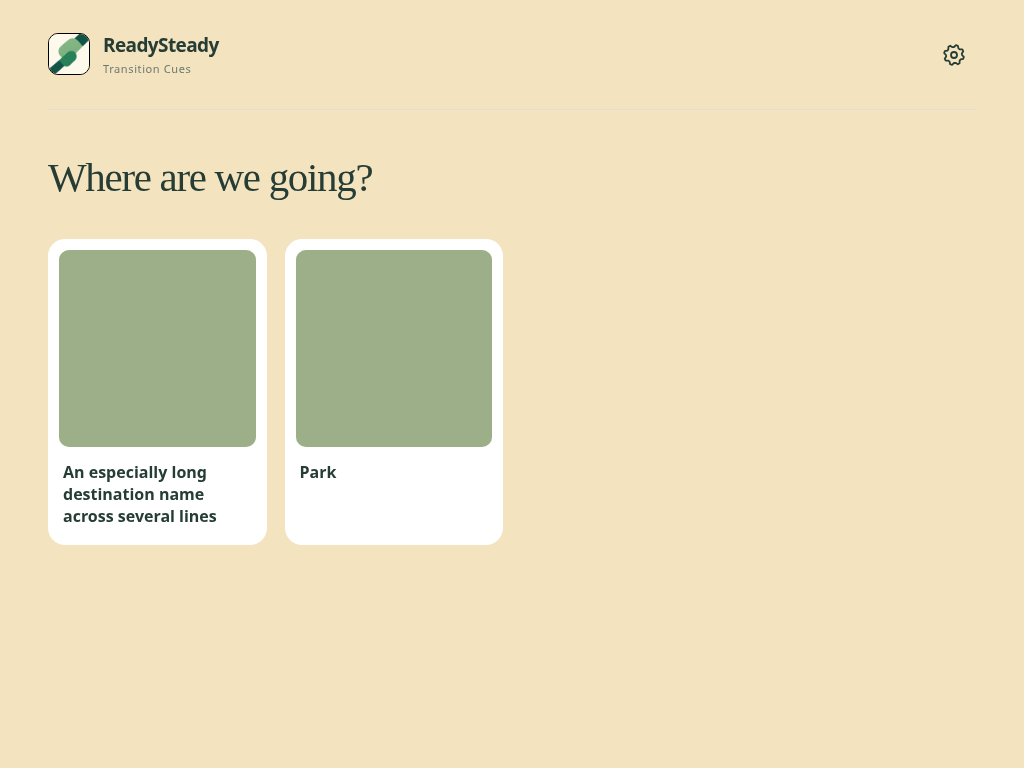
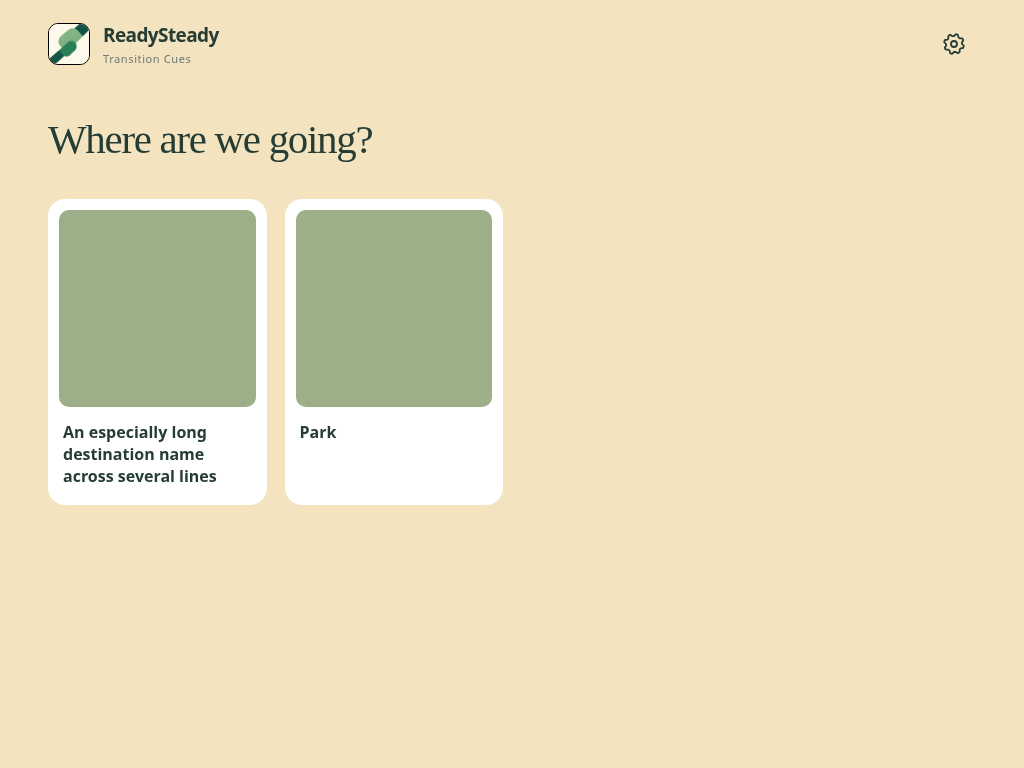
Compact the planner header and add reset in v1.0.25

diff --git a/transition_cues/transition-cues-web/app.js b/transition_cues/transition-cues-web/app.js
@@ -18,9 +18,9 @@ async function refresh() { state = await api('state'); state.items ??= []; state
 const libraryIcon='<svg viewBox="0 0 24 24" fill="none" stroke="currentColor" stroke-width="1.8" aria-hidden="true"><rect x="3" y="3" width="18" height="18" rx="3"/><circle cx="8" cy="8" r="1.5"/><path d="m3 17 5-5 4 4 4-6 5 7"/></svg>';
 const settingsIcon='<svg viewBox="0 0 24 24" fill="none" stroke="currentColor" stroke-width="1.8" stroke-linejoin="round" aria-hidden="true"><polygon points="20.00,12.00 21.81,13.95 21.24,15.83 18.65,16.44 17.66,17.66 17.56,20.31 15.83,21.24 13.56,19.85 12.00,20.00 10.05,21.81 8.17,21.24 7.56,18.65 6.34,17.66 3.69,17.56 2.76,15.83 4.15,13.56 4.00,12.00 2.19,10.05 2.76,8.17 5.35,7.56 6.34,6.34 6.44,3.69 8.17,2.76 10.44,4.15 12.00,4.00 13.95,2.19 15.83,2.76 16.44,5.35 17.66,6.34 20.31,6.44 21.24,8.17 19.85,10.44"/><circle cx="12" cy="12" r="3"/></svg>';
 const backIcon='<svg viewBox="0 0 24 24" fill="none" stroke="currentColor" stroke-width="2" stroke-linecap="round" stroke-linejoin="round" aria-hidden="true"><path d="m15 18-6-6 6-6"/></svg>';
-function frame(content, route) {
+function frame(content, route, selectionHeader='') {
   document.body.classList.remove('lock-active');
-  app.innerHTML = `<div class="shell"><header class="header ${route==='choose'?'':'subpage-header'}">${route==='choose'?'<a class="brand" href="#choose"><img src="/icons/icon-192.png?v=1.0.22" alt=""><span>ReadySteady<small>Transition Cues</small></span></a>':`<a class="back-plan header-back" href="#choose" aria-label="Back to plan" title="Back to plan">${backIcon}</a><h1 class="header-title">Settings</h1>`}${route==='choose'?`<nav class="nav" aria-label="Main navigation">${[['settings','Settings',settingsIcon]].map(([r,t,icon])=>`<a class="icon-link" href="#${r}" aria-label="${t}" title="${t}" ${route===r?'aria-current="page"':''}>${icon}</a>`).join('')}</nav>`:''}${state.returnUrl ? `<a class="return-link" href="${esc(state.returnUrl)}">← Back to main screen</a>` : ''}</header>${content}</div>`;
+  app.innerHTML = `<div class="shell"><header class="header ${route==='choose'?'planner-header':'subpage-header'} ${selectionHeader?'selection-header':''}">${selectionHeader||`${route==='choose'?'<a class="brand" href="#choose"><img src="/icons/icon-192.png?v=1.0.22" alt=""><span>ReadySteady<small>Transition Cues</small></span></a>':`<a class="back-plan header-back" href="#choose" aria-label="Back to plan" title="Back to plan">${backIcon}</a><h1 class="header-title">Settings</h1>`}${route==='choose'?`<nav class="nav" aria-label="Main navigation">${[['settings','Settings',settingsIcon]].map(([r,t,icon])=>`<a class="icon-link" href="#${r}" aria-label="${t}" title="${t}" ${route===r?'aria-current="page"':''}>${icon}</a>`).join('')}</nav>`:''}${state.returnUrl ? `<a class="return-link" href="${esc(state.returnUrl)}">← Back to main screen</a>` : ''}`}</header>${content}</div>`;
 }
 function intro(title, description, extra='') { return `<div class="intro"><div><h1>${title}</h1>${description?`<p>${description}</p>`:''}</div>${extra}</div>`; }
 
@@ -64,7 +64,7 @@ function renderChoose(focusStep=false) {
   else if(!selected.transport){selected.items=[];selected.people=[];planStep=Math.min(planStep,1);}
   planStep=Math.min(planStep,2);
   const thumbnails=planKinds.flatMap((key,index)=>(Array.isArray(selected[key])?selected[key]:selected[key]?[selected[key]]:[]).map((item,itemIndex)=>`<span class="plan-selection"><span class="plan-category" aria-hidden="true">${itemIndex===0?`<svg viewBox="0 0 24 24" fill="none" stroke="currentColor" stroke-width="1.7" stroke-linecap="round" stroke-linejoin="round">${uploadCategories.find(([kind])=>kind===key)[2]}</svg>`:''}</span><button type="button" class="plan-thumbnail ${key==='people'?'person-thumbnail':''}" data-edit-step="${Math.min(index,2)}" data-edit-kind="${key}" aria-label="Change ${key==='places'?'place':key==='items'?'item':key==='people'?'person':'transport'}: ${esc(item.name)}" title="${esc(item.name)}"><img src="${esc(item.image)}" alt=""></button></span>`)).join('');
-  const progress=selected.places?`<div class="plan-progress" aria-label="Your selections">${planStep>0?`<button id="previousStep" type="button" class="step-back" aria-label="Previous selection" title="Previous selection">${backIcon}</button>`:''}<div class="plan-thumbnails">${thumbnails}</div></div>`:'';
+  const progress=selected.places?`<div class="plan-progress" aria-label="Your selections"><div class="plan-thumbnails">${thumbnails}</div><button type="button" id="resetPlan" class="reset-plan">Reset</button></div>`:'';
   function cards(kind) {
     const multi=kind==='people'||kind==='items';
     return state[kind].length?`<div class="grid" data-choice-group="${kind}">${state[kind].map(item=>{
@@ -76,7 +76,7 @@ function renderChoose(focusStep=false) {
   const title=['Where are we going?','How are we travelling','Who is coming along?'][planStep];
   const heading=`<div class="intro wizard-heading"><div><h1 id="planHeading" tabindex="-1">${title}</h1>${planStep===2?'<p class="optional-label">Optional</p>':''}</div></div>`;
   const choices=planStep===2?`${cards('people')}<section class="optional-items" aria-labelledby="itemsHeading"><div class="intro wizard-heading"><div><h2 id="itemsHeading" tabindex="-1">What is coming with us</h2><p class="optional-label">Optional</p><p class="items-guidance">Choose up to 4 items</p></div><small id="itemCount" role="status">${selected.items.length}/${MAX_BRING_ITEMS}</small></div>${cards('items')}</section>`:cards(planStep===0?'places':'transport');
-  frame(progress+`<section id="planStep" data-step="${planStep}" aria-labelledby="planHeading">${heading}${choices}</section><div class="journey-bar wizard-actions" ${selected.places?'':'hidden'}><button id="start" class="primary" ${selected.places&&selected.transport?'':'disabled'}>Show the plan <span aria-hidden="true">→</span></button></div>`,'choose');
+  frame(`<section id="planStep" data-step="${planStep}" aria-labelledby="planHeading">${heading}${choices}</section><div class="journey-bar wizard-actions" ${selected.places?'':'hidden'}><button id="start" class="primary" ${selected.places&&selected.transport?'':'disabled'}>Show the plan <span aria-hidden="true">→</span></button></div>`,'choose',progress);
   if($('.plan-thumbnails'))$('.plan-thumbnails').scrollLeft=selectionScroll;
   app.querySelectorAll('[data-kind]').forEach(button=>button.onclick=()=>{
     const kind=button.dataset.kind, item=state[kind].find(x=>x.id===button.dataset.id);
@@ -87,7 +87,7 @@ function renderChoose(focusStep=false) {
       renderChoose();app.querySelector(`[data-kind="${kind}"][data-id="${item.id}"]`)?.focus({preventScroll:true});
     }else{selected[kind]=item;planStep++;renderChoose(true);}
   });
-  if($('#previousStep'))$('#previousStep').onclick=()=>{planStep--;renderChoose(true);};
+  if($('#resetPlan'))$('#resetPlan').onclick=()=>{selected={places:null,transport:null,items:[],people:[]};pendingJourney=null;planStep=0;renderChoose(true);};
   app.querySelectorAll('[data-edit-step]').forEach(button=>button.onclick=()=>{planStep=Number(button.dataset.editStep);const kind=button.dataset.editKind;renderChoose(true);if(kind==='items'){$('#itemsHeading').focus({preventScroll:true});$('#itemsHeading').scrollIntoView({block:'start'});}});
   $('#start').onclick=()=>{
     if(!selected.places||!selected.transport)return;

diff --git a/transition_cues/transition-cues-web/style.css b/transition_cues/transition-cues-web/style.css
@@ -60,3 +60,7 @@
 
 .brand img{border:1px solid #000}.add-photos{max-width:440px}.settings-segments{width:min(100%,600px)}.photo-library .library-grid{grid-template-columns:repeat(4,minmax(0,1fr))}@media(max-width:900px){.photo-library .library-grid{grid-template-columns:repeat(3,minmax(0,1fr))}}@media(max-width:620px){.photo-library .library-grid{grid-template-columns:repeat(2,minmax(0,1fr))}.settings-segments [role=tab]{flex-direction:column;gap:5px;font-size:12px;padding:9px 4px;line-height:1.3}.settings-segments svg{width:20px;height:20px}}
 @media(orientation:portrait) and (max-width:620px){.locked .journey-companions{flex-direction:column;gap:24px}.locked .journey-companions>section{width:100%}.locked .cue-card figcaption,.locked:is(.has-items,.has-people) .cue-card figcaption{--cue-name-size:clamp(18px,4.5vw,30px);font-size:var(--cue-name-size)}.locked .cue-card .cue-label{font-size:clamp(14px,3.5vw,22px)}}
+
+/* The planner header becomes the selection strip once a place is chosen. */
+.planner-header{border-bottom:0;min-height:88px}.planner-header+#planStep>.wizard-heading{margin-top:16px;margin-bottom:24px}.selection-header{display:block;min-height:0;padding:16px 0 0}.selection-header .plan-progress{display:flex;flex-direction:column;align-items:stretch;gap:0;margin:0;min-height:0}.selection-header .plan-thumbnails{flex:auto;width:100%}.reset-plan{align-self:flex-start;min-height:44px;padding:8px 4px;background:transparent;color:var(--muted);font-size:13px;text-decoration:underline;text-underline-offset:3px}
+@media(max-width:620px){.planner-header{min-height:80px;padding:16px 0 8px}.selection-header{min-height:0;padding:12px 0 0}.planner-header+#planStep>.wizard-heading{margin-top:12px}}

diff --git a/tests/browser_display.py b/tests/browser_display.py
@@ -74,9 +74,12 @@ def run(engine):
                 expect(page.get_by_role('heading',name='How are we travelling',exact=True)).to_be_visible()
                 expect(page.get_by_role('heading',name='Where are we going?',exact=True)).to_have_count(0)
                 expect(page.locator('.plan-thumbnail')).to_have_count(1)
+                expect(page.locator('.brand,.nav,#previousStep')).to_have_count(0)
+                expect(page.get_by_role('button',name='Reset',exact=True)).to_be_visible()
+                expect(page.locator('.header .plan-thumbnails')).to_be_visible()
                 page.screenshot(path='/tmp/readysteady-step-transport.png',full_page=True)
                 expect(page.locator('#start')).to_be_disabled()
-                page.locator('#previousStep').click()
+                page.locator('[data-edit-step="0"]').click()
                 expect(page.locator('[data-kind="places"][aria-pressed="true"]')).to_have_count(1)
                 page.get_by_role('button',name=names[0][1],exact=True).click()
                 page.get_by_role('button',name='Bus',exact=True).click()
@@ -172,10 +175,19 @@ def run(engine):
                 for _ in range(4):page.locator('.journey-content>h1').click()
                 expect(page.locator('#start')).to_be_visible()
                 assert page.evaluate("localStorage.getItem('tc-locked-journey')") is None
+                page.get_by_role('button',name='Reset',exact=True).click()
+                expect(page.locator('#planStep')).to_have_attribute('data-step','0')
+                expect(page.locator('.plan-thumbnail,#resetPlan')).to_have_count(0)
+                expect(page.locator('.brand')).to_be_visible()
+                expect(page.get_by_role('link',name='Settings',exact=True)).to_be_visible()
+                expect(page.locator('#start')).not_to_be_visible()
+                page.get_by_role('button',name=names[0][1],exact=True).click()
+                page.get_by_role('button',name='Bus',exact=True).click()
+                expect(page.locator('[data-kind="items"][aria-pressed="true"],[data-kind="people"][aria-pressed="true"]')).to_have_count(0)
                 page.reload();expect(page.locator('#start')).not_to_be_visible()
                 assert not errors,errors
                 browser.close()
-                print(f'PASS ({engine}): selection-card photo/name alignment at phone/tablet sizes, one-step wizard, thumbnail summary and editing, back navigation, optional-item skip, conditional start button, accessible navigation, portrait and landscape display, aligned long names and photos, companion groups, snapshot reload and timed five-tap exit.')
+                print(f'PASS ({engine}): selection-card photo/name alignment at phone/tablet sizes, one-step wizard, thumbnail summary and editing, reset navigation, optional-item skip, conditional start button, accessible navigation, portrait and landscape display, aligned long names and photos, companion groups, snapshot reload and timed five-tap exit.')
         finally:
             server.shutdown();server.server_close();thread.join()
 

diff --git a/tests/browser_helpers.py b/tests/browser_helpers.py
@@ -36,7 +36,7 @@ def open_step(page, kind):
     page.locator('#planStep').wait_for()
     current=int(page.locator('#planStep').get_attribute('data-step'))
     while current>target:
-        page.locator('#previousStep').click()
+        page.locator(f'[data-edit-step="{target}"]').first.click()
         current=int(page.locator('#planStep').get_attribute('data-step'))
     while current<target:
         if current<2:

diff --git a/tests/container_smoke.py b/tests/container_smoke.py
@@ -81,5 +81,5 @@ print('PASS: replacement container preserves library and images in /data')
 
 if __name__ == '__main__':
     parser = argparse.ArgumentParser()
-    parser.add_argument('--image', default='transition-cues-ha-check:1.0.24')
+    parser.add_argument('--image', default='transition-cues-ha-check:1.0.25')
     run(parser.parse_args().image)

diff --git a/DEVELOPMENT.md b/DEVELOPMENT.md
@@ -17,7 +17,7 @@ python3 -m unittest discover -s tests -v
 node --check transition_cues/transition-cues-web/app.js
 ```
 
-For optional browser checks, install Playwright and its Chromium dependency, then run `python3 tests/browser_smoke.py` and `python3 tests/browser_people_crop.py`. The latter checks square frames, fill/fit output pixels, background colours, source transparency, People portraits and immutable locked journey snapshots; add `--browser webkit` to check the same flows with the Safari engine. Run `python3 tests/browser_display.py` (or add `--browser webkit`) for the one-step planner, selection thumbnails, back navigation, Settings controls, portrait/landscape layouts, long-name alignment and timed tap exit. Run `python3 tests/browser_splash.py` (or add `--browser webkit`) to check the pre-lock splash and saved browser preference. Set `CHROMIUM_PATH` to use a system Chromium. It creates an isolated temporary library, not `/data` or a shared Home Assistant folder.
+For optional browser checks, install Playwright and its Chromium dependency, then run `python3 tests/browser_smoke.py` and `python3 tests/browser_people_crop.py`. The latter checks square frames, fill/fit output pixels, background colours, source transparency, People portraits and immutable locked journey snapshots; add `--browser webkit` to check the same flows with the Safari engine. Run `python3 tests/browser_display.py` (or add `--browser webkit`) for the one-step planner, selection thumbnails, reset navigation, Settings controls, portrait/landscape layouts, long-name alignment and timed tap exit. Run `python3 tests/browser_splash.py` (or add `--browser webkit`) to check the pre-lock splash and saved browser preference. Set `CHROMIUM_PATH` to use a system Chromium. It creates an isolated temporary library, not `/data` or a shared Home Assistant folder.
 
 CI runs the tests and builds the add-on for `linux/amd64` and `linux/arm64` (Home Assistant's `aarch64`). Each job also runs an isolated container check that verifies /data storage and preservation across container replacement. Nothing is pushed to a registry or deployed. A local equivalent is `docker build -t transition-cues-check ./transition_cues` followed by `python3 tests/container_smoke.py --image transition-cues-check`. The smoke check creates and removes only its own temporary containers and volume.
 

diff --git a/README.md b/README.md
@@ -24,7 +24,7 @@ No GitHub token is needed for this public repository. You do not need to copy fi
 
 ## Use
 
-Choose a place, then transport, one step at a time. Small thumbnails at the top show your choices; use the back arrow or tap a thumbnail to edit an earlier choice. On the final page, optionally select people first and up to four bring-along items beneath them. Tap **Show the plan** when ready. The locked display shows the place and transport first, followed by selected people as circular portraits and bring-along items in side-by-side groups. The journey works in portrait and landscape. People and items are optional; tap any selected picture again to deselect it. Tap five times within three seconds to finish. Reloading restores the locked journey in that browser.
+Choose a place, then transport, one step at a time. After choosing a place, a horizontally scrolling row of selected pictures replaces the logo and settings cog. Tap a thumbnail to edit an earlier choice, or **Reset** below the row to clear all choices and start again. On the final page, optionally select people first and up to four bring-along items beneath them. Tap **Show the plan** when ready. The locked display shows the place and transport first, followed by selected people as circular portraits and bring-along items in side-by-side groups. The journey works in portrait and landscape. People and items are optional; tap any selected picture again to deselect it. Tap five times within three seconds to finish. Reloading restores the locked journey in that browser.
 
 On a phone, open the same server address and choose **Settings → Add photos** to upload and name pictures. Use **Settings → Manage photos** to browse, crop, rename, move, reorder and remove existing pictures in all four categories. Use **Crop photo** before uploading or beside an existing library picture to frame the image. People have a circular preview; drag, zoom or use the position sliders to centre each face. Use **Settings → More settings** to add a **Back to main screen** link in the parent-screen navigation. The return link can point to a dashboard or another application.
 

diff --git a/transition_cues/DOCS.md b/transition_cues/DOCS.md
@@ -70,7 +70,7 @@ Crops keep the existing picture's name and category. Images on an already-locked
 
 The planner has three pages. **Where are we going?** shows Places with no subtitle or numbered heading. Selecting a place opens **How are we travelling**. Selecting transport opens the combined final page: **Who is coming along?** with People pictures, then **What is coming with us** with item pictures. Both groups are labelled **Optional**, with **Choose up to 4 items** beneath the Items heading. People has no four-person cap. Tap a selected picture again to deselect it.
 
-After the first place is selected, the opening title and description are replaced by small thumbnails of your choices. The thumbnails update as you select or deselect pictures. Use the chevron to return to the previous step, or tap a thumbnail to edit that category. Earlier choices are retained when navigating back. **Show the plan** appears after choosing a place and becomes available once transport is selected; both optional categories may be left empty.
+After the first place is selected, selected-picture thumbnails replace the logo and settings cog in the header. Category glyphs identify the first picture in each group, and the row scrolls sideways when needed. Tap a thumbnail to edit that category while retaining other choices. Use **Reset** below the row to clear all choices, return to the first question and restore the logo and settings cog. **Show the plan** appears after choosing a place and becomes available once transport is selected; both optional categories may be left empty.
 
 The journey appears in both portrait and landscape. On portrait phones, the People and Items groups stack to use the available width. Destination and transport photos stay aligned, with **To:** and **By:** beside their names. Long names expand downward. People and bring-along items appear in groups beside each other below the main photos; larger groups may wrap and the display can scroll.
 

diff --git a/transition_cues/CHANGELOG.md b/transition_cues/CHANGELOG.md
@@ -1,5 +1,11 @@
 # Changelog
 
+## 1.0.25
+
+- Remove the planner header divider and tighten the space above questions.
+- Replace the logo and settings header with selected pictures after choosing a place.
+- Replace previous-question navigation with a Reset text control below the selected pictures.
+
 ## 1.0.24
 
 - Add category glyphs above the selected place, transport, first person and first item.
